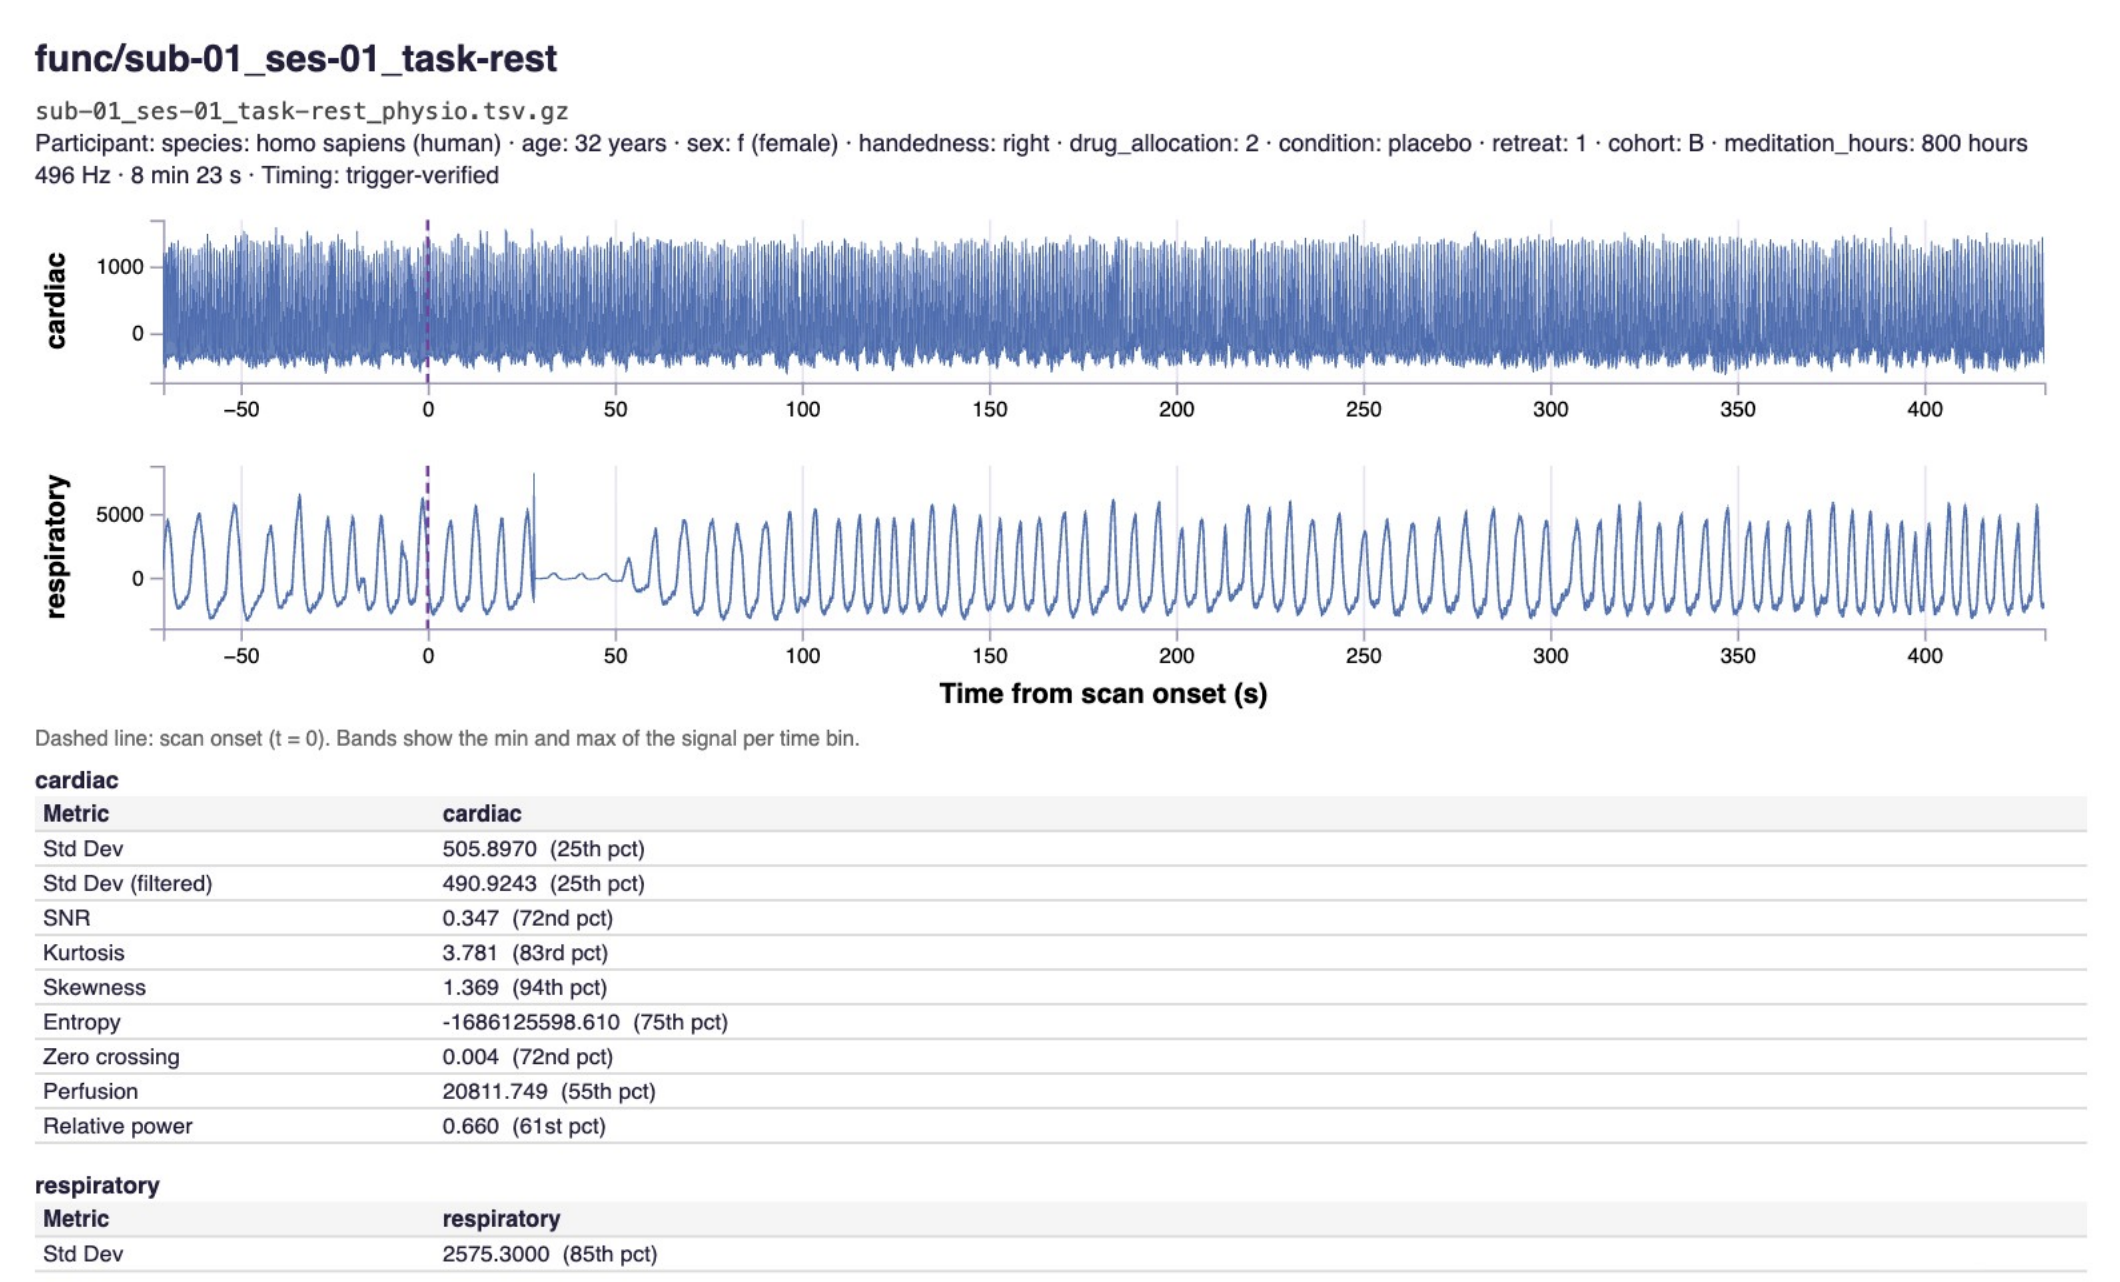
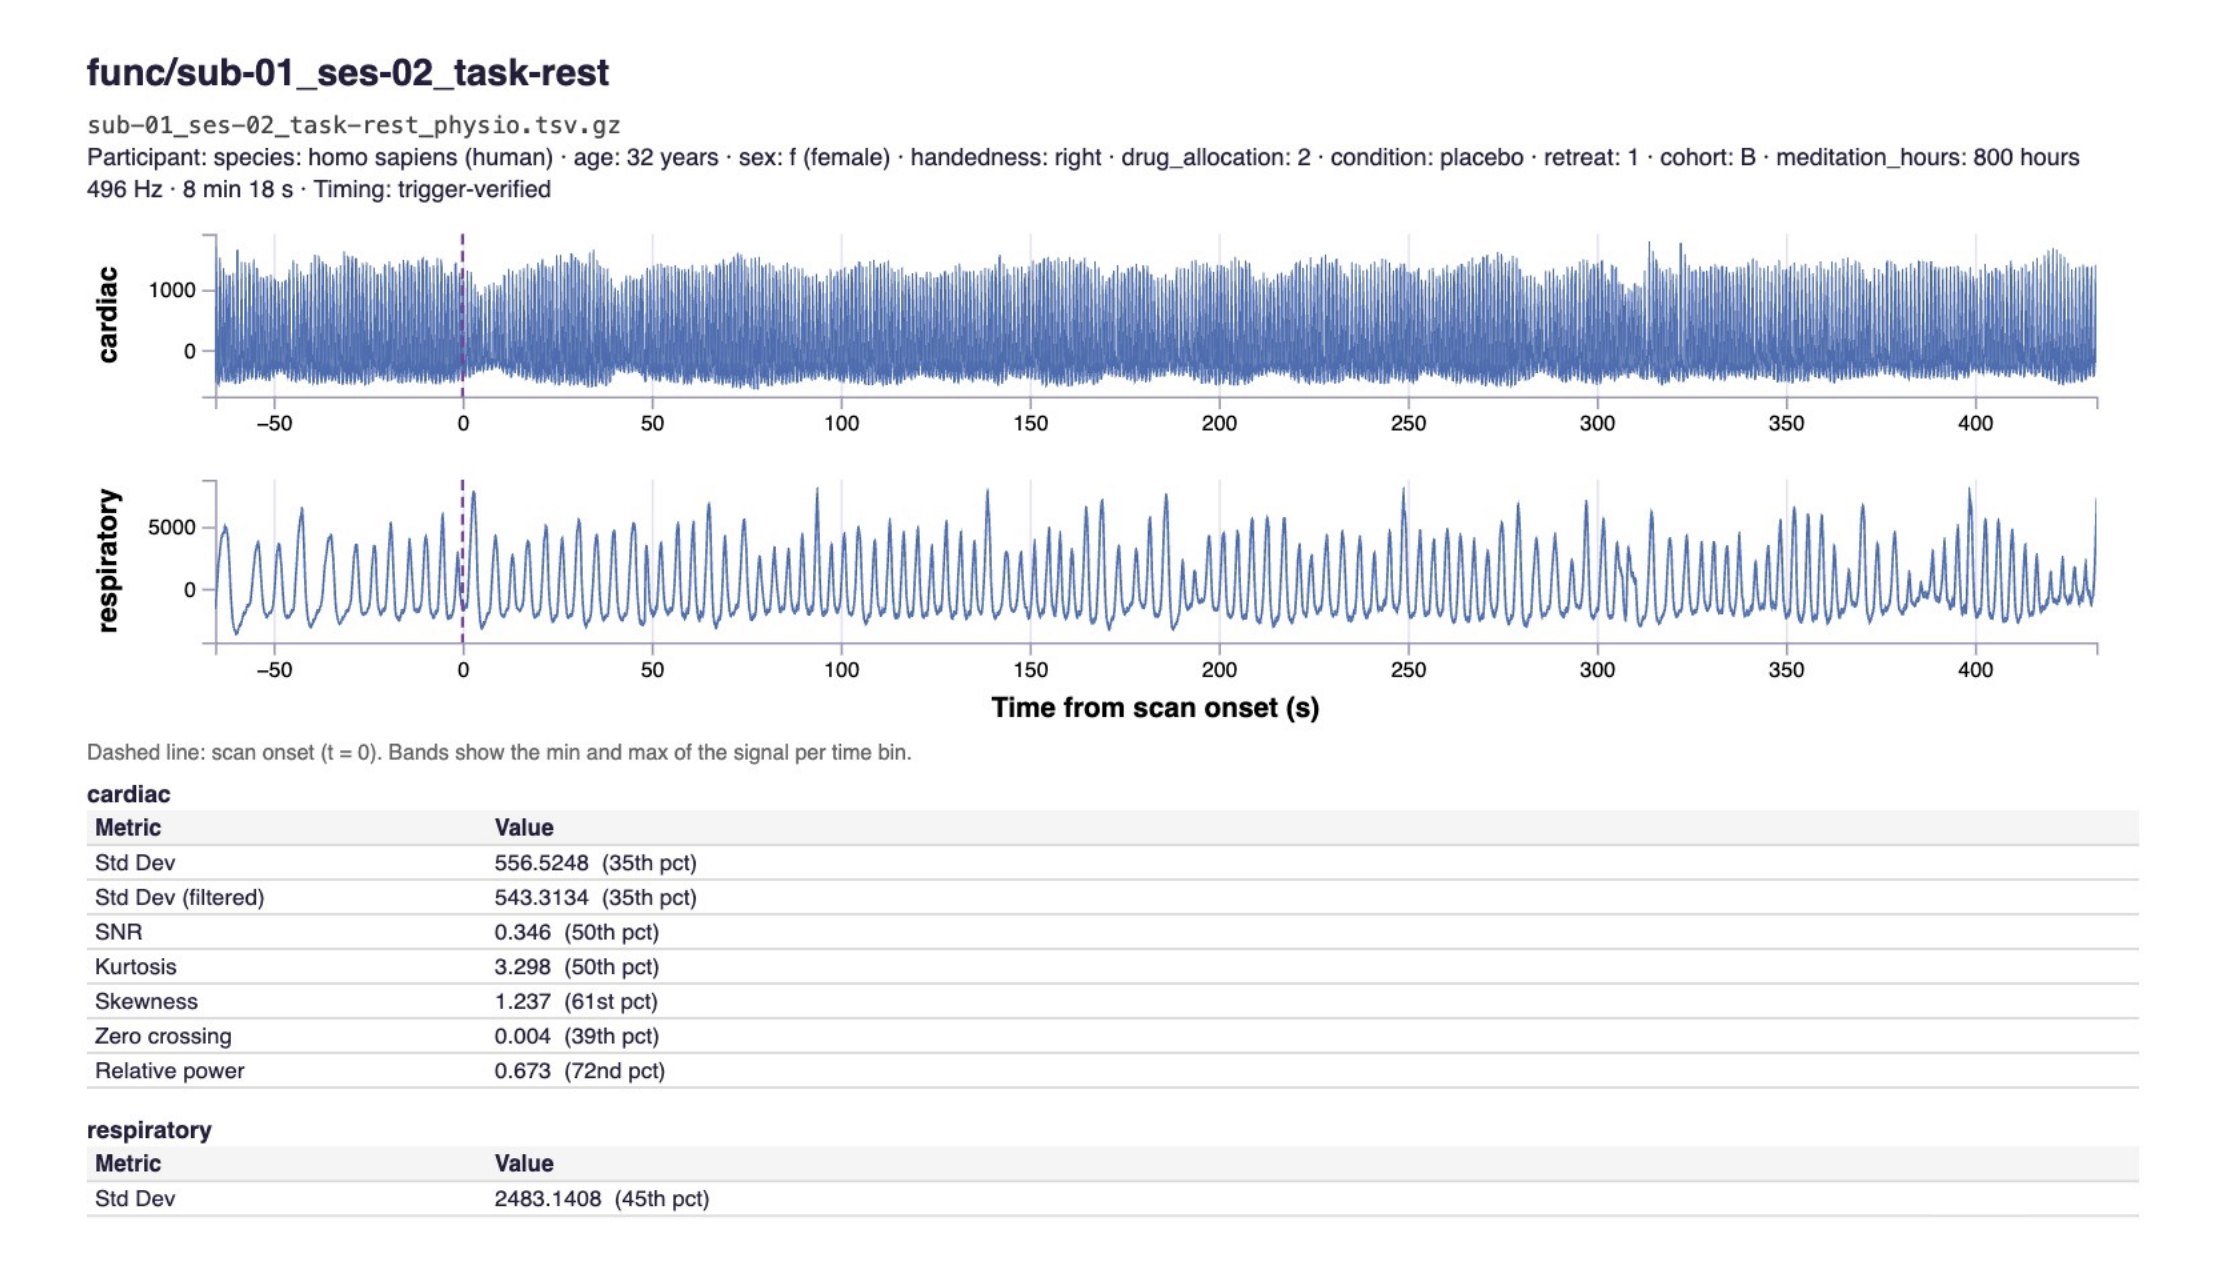
Label the PDF metrics columns Metric and Value
The channel name is already the bold label above each table, so the
value column no longer repeats it. New PDF screenshot and alt text.

diff --git a/src/quality/report.ts b/src/quality/report.ts
@@ -482,7 +482,7 @@ export async function buildQualityReport(opts: ReportOptions): Promise<Blob> {
             const pr = percentileRank(group.map((g) => g.metrics[k]), v);
             return [metricDef(k).label, Number.isFinite(pr) ? `${formatMetric(v, k)}  (${ordinal(pr)} pct)` : formatMetric(v, k)];
           });
-          await L.table(['Metric', r.channel], body);
+          await L.table(['Metric', 'Value'], body);
         }
       }
     }

diff --git a/docs/user-guide/quality-metrics.md b/docs/user-guide/quality-metrics.md
@@ -78,8 +78,8 @@ The scan open in Explore and Annotate is the one Stats opens, and the other way 
 `data/quality/<dataset>/quality_report.pdf` has a summary, each channel's scatter plot, and one page per scan with its waveforms and, per channel, a table of the metrics it has, each with its percentile. Computing the metrics deletes the old report; the next time the Stats tab opens, it builds a new one in the background and saves it there. The Stats sidebar shows its progress, then a link to open it.
 
 ```{figure} ../images/quality-metrics-pdf-report.png
-:alt: One scan's page in the PDF report: the scan name and file, participant information, sampling rate, duration and timing check, the cardiac and respiratory waveforms over the whole recording with a dashed scan onset line, and a table of every metric for each channel with its percentile
+:alt: One scan's page in the PDF report: the scan name and file, participant information, sampling rate, duration and timing check, the cardiac and respiratory waveforms over the whole recording with a dashed scan onset line, then one Metric and Value table per channel with each value's percentile: seven metrics for cardiac, only Std Dev for respiratory
 :name: fig-pdf-report
 
-One scan's page in the PDF report: its waveforms and every metric, with each value's percentile in the dataset.
+One scan's page in the PDF report: its waveforms and, per channel, its metrics with each value's percentile in the dataset.
 ```
